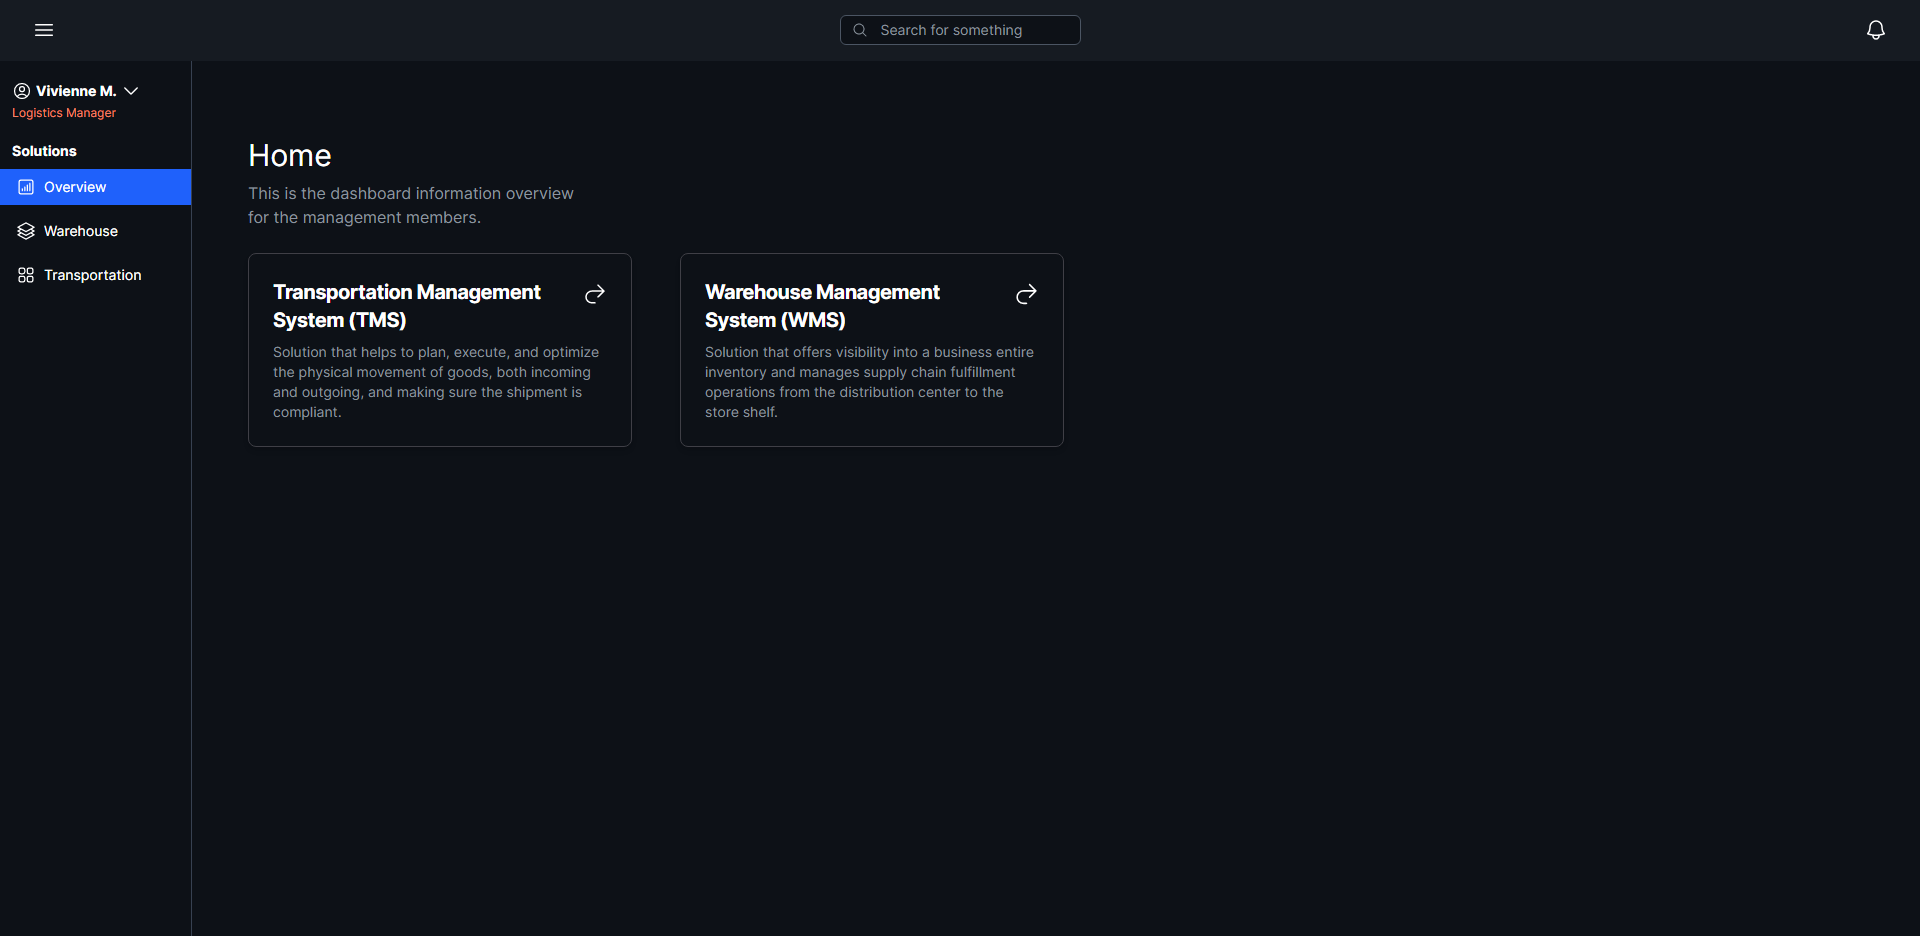
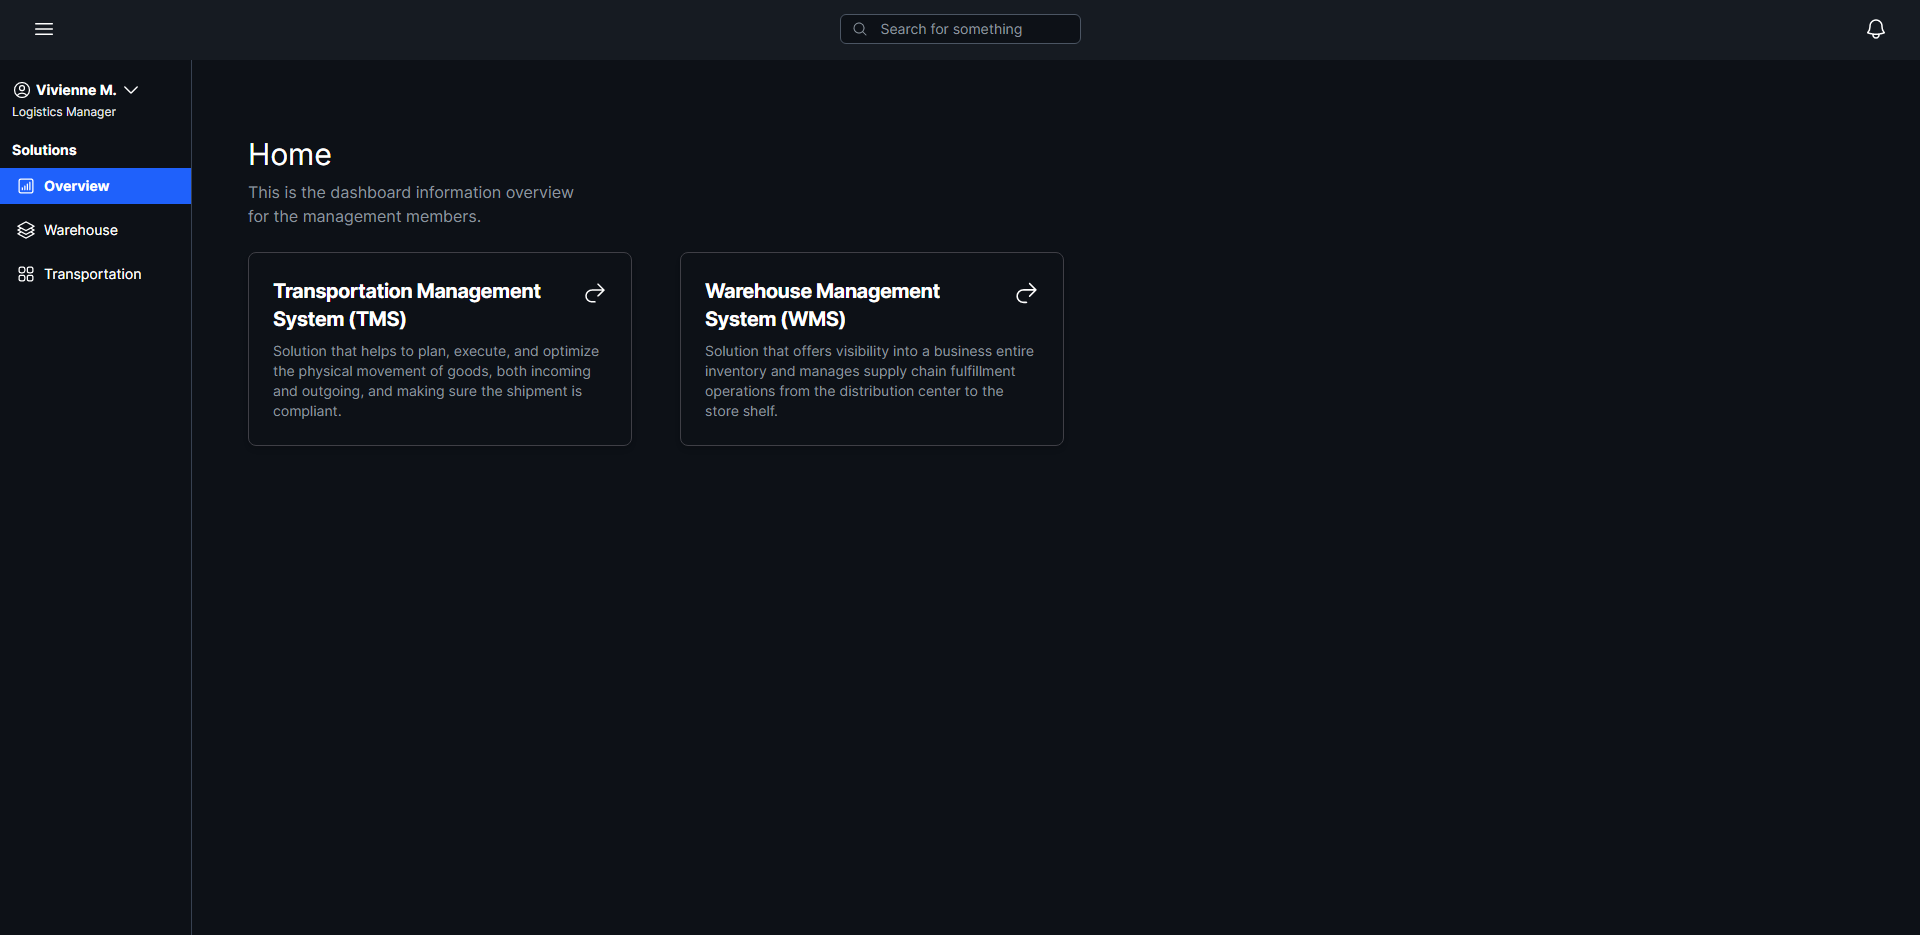
Updating interface

diff --git a/client/pages/warehouse.tsx b/client/pages/warehouse.tsx
@@ -3,6 +3,7 @@ import axios from "axios";
 import Head from "next/head";
 
 import { useState, useEffect, FormEvent } from "react";
+import * as Popover from "@radix-ui/react-popover";
 
 import * as Dialog from "@radix-ui/react-dialog";
 import * as AlertDialog from "@radix-ui/react-alert-dialog";
@@ -15,7 +16,7 @@ import {
   MagnifyingGlassIcon,
   TableCellsIcon,
 } from "@heroicons/react/24/outline";
-import { PlusSmallIcon } from "@heroicons/react/24/solid";
+import { PlusSmallIcon, XMarkIcon } from "@heroicons/react/24/solid";
 
 type ItemProps = {
   id: string;
@@ -47,6 +48,7 @@ export default function Warehouse(props: CountProps) {
   const [items, setItems] = useState<ItemProps[]>([]);
   const [open, setIsOpen] = useState(false);
   const [deleteDialogOpen, setDeleteDialogOpen] = useState(false);
+  const [updateDialogOpen, setUpdateDialogOpen] = useState(false);
   const [query, setQuery] = useState("");
 
   useEffect(() => {
@@ -77,26 +79,6 @@ export default function Warehouse(props: CountProps) {
     } catch (error) {
       console.error();
     }
-  }
-
-  async function handleUpdate(id: string, event: FormEvent) {
-    event.preventDefault();
-
-    const formData = new FormData(event.target as HTMLFormElement);
-    const data = Object.fromEntries(formData);
-
-    const response = await axios.put(
-      `http://localhost:4000/warehouseitems/${id}`,
-      {
-        product: data.product,
-        description: data.description,
-        sku: data.sku,
-        weight: data.weight,
-        pickingStatus: data.pickingStatus,
-      }
-    );
-    setItems([response.data, ...items]);
-    alert("Item updated with success!");
   }
 
   function handleDelete(id: string) {
@@ -228,15 +210,15 @@ export default function Warehouse(props: CountProps) {
   function deleteDialog() {
     return deleteDialogOpen ? (
       <AlertDialog.Portal>
-        <AlertDialog.Overlay className="white fixed inset-0 bg-black bg-opacity-5" />
-        <AlertDialog.Content className="fixed top-1/2 left-1/2 w-[480px] -translate-x-1/2 -translate-y-1/2 rounded-lg border border-zinc-700 bg-[#0d1117] py-8 px-10 text-white shadow-lg shadow-black/25">
-          <AlertDialog.Title className="text-xl">
-            Delivery successfully deleted
+        <AlertDialog.Overlay className="white fixed inset-0 bg-black bg-opacity-30" />
+        <AlertDialog.Content className="fixed top-1/2 left-1/2 w-[400px] -translate-x-1/2 -translate-y-1/2 items-center rounded-lg border border-zinc-700 bg-[#0d1117] py-8 px-10 text-white shadow-lg shadow-black/25">
+          <AlertDialog.Title className="text-center text-xl">
+            Product successfully deleted
           </AlertDialog.Title>
-          <AlertDialog.Description className="pt-0.5  text-sm text-[#8B949E]">
-            This delivery has been successfully deleted.
+          <AlertDialog.Description className="pt-1 text-center text-sm text-[#8B949E]">
+            This product has been successfully deleted.
           </AlertDialog.Description>
-          <div>
+          <div className="flex justify-center">
             <AlertDialog.Action asChild>
               <button className="mt-4 flex h-[40px] w-[120px] items-center justify-center gap-1 rounded-lg border border-zinc-700 bg-[#0d1117] pt-0 text-sm font-bold text-white duration-300  hover:border-[#1f61fb] hover:bg-[#131922] hover:text-white  hover:outline-none hover:ring-1 hover:ring-[#1f61fb] hover:transition-colors">
                 Got it, thanks!
@@ -356,11 +338,11 @@ export default function Warehouse(props: CountProps) {
                         <td className="py-4 px-6">{products.weight}</td>
                         <td className="py-4 px-6">{products.pickingStatus}</td>
 
-                        <AlertDialog.Root
-                          open={deleteDialogOpen}
-                          onOpenChange={setDeleteDialogOpen}
-                        >
-                          <td className="py-4 px-6 text-right">
+                        <td className="py-4 px-6 text-right">
+                          <AlertDialog.Root
+                            open={deleteDialogOpen}
+                            onOpenChange={setDeleteDialogOpen}
+                          >
                             {deleteDialog()}
                             <AlertDialog.Trigger>
                               <button
@@ -370,8 +352,8 @@ export default function Warehouse(props: CountProps) {
                                 Delete
                               </button>
                             </AlertDialog.Trigger>
-                          </td>
-                        </AlertDialog.Root>
+                          </AlertDialog.Root>
+                        </td>
                       </tr>
                     );
                   })}

diff --git a/client/pages/transportation.tsx b/client/pages/transportation.tsx
@@ -100,7 +100,7 @@ export default function Transportation(props: CountProps) {
     return open ? (
       <Dialog.Portal>
         <Dialog.Overlay className="fixed inset-0 bg-black/60" />
-        <Dialog.Content className="fixed top-1/2 left-1/2 w-[450px] -translate-x-1/2 -translate-y-1/2 rounded-lg border border-zinc-700 bg-[#0d1117] py-8 px-10 text-white shadow-lg shadow-black/25">
+        <Dialog.Content className="fixed top-1/2 left-1/2 w-[440px] -translate-x-1/2 -translate-y-1/2 rounded-lg border border-zinc-700 bg-[#0d1117] py-8 px-10 text-white shadow-lg shadow-black/25">
           <Dialog.Title className="flex items-center gap-1 text-xl">
             New delivery
             <PlusSmallIcon className="h-7 w-7" />
@@ -266,13 +266,13 @@ export default function Transportation(props: CountProps) {
       <AlertDialog.Portal>
         <AlertDialog.Overlay className="white fixed inset-0 bg-black bg-opacity-5" />
         <AlertDialog.Content className="fixed top-1/2 left-1/2 w-[480px] -translate-x-1/2 -translate-y-1/2 rounded-lg border border-zinc-700 bg-[#0d1117] py-8 px-10 text-white shadow-lg shadow-black/25">
-          <AlertDialog.Title className="text-xl">
+          <AlertDialog.Title className="text-center text-xl">
             Delivery successfully deleted
           </AlertDialog.Title>
-          <AlertDialog.Description className="pt-0.5  text-sm text-[#8B949E]">
+          <AlertDialog.Description className="pt-1 text-center text-sm text-[#8B949E]">
             This delivery has been successfully deleted.
           </AlertDialog.Description>
-          <div>
+          <div className="flex justify-center">
             <AlertDialog.Action asChild>
               <button className="mt-4 flex h-[40px] w-[120px] items-center justify-center gap-1 rounded-lg border border-zinc-700 bg-[#0d1117] pt-0 text-sm font-bold text-white duration-300  hover:border-[#1f61fb] hover:bg-[#131922] hover:text-white  hover:outline-none hover:ring-1 hover:ring-[#1f61fb] hover:transition-colors">
                 Got it, thanks!

diff --git a/client/pages/components/Nav.tsx b/client/pages/components/Nav.tsx
@@ -44,7 +44,7 @@ export function Nav() {
             <p className="text-sm font-bold">Vivienne M.</p>
             <ChevronDownIcon className="h-5 w-5 cursor-pointer text-white hover:text-[#c7c7c7]" />
           </div>
-          <p className="pt-1 text-xs text-[#f78166]">Logistics Manager</p>
+          <p className="pt-1 text-xs text-gray-200">Logistics Manager</p>
         </div>
         <div className="h-full">
           <h1 className="ml-3 text-sm font-bold text-white">Solutions</h1>
@@ -55,7 +55,7 @@ export function Nav() {
                   href="/"
                   className={
                     router.pathname == "/"
-                      ? "mt-2 flex items-center bg-[#1f61fb] p-2 text-base font-normal text-white"
+                      ? "mt-2 flex items-center bg-[#1f61fb] p-2 text-base font-bold text-white"
                       : "mt-2 flex items-center p-2 text-base font-normal text-white hover:bg-[#1f61fb]"
                   }
                 >
@@ -69,7 +69,7 @@ export function Nav() {
                   href="/warehouse"
                   className={
                     router.pathname == "/warehouse"
-                      ? "mt-2 flex items-center bg-[#1f61fb] p-2 text-base font-normal text-white"
+                      ? "mt-2 flex items-center bg-[#1f61fb] p-2 text-base font-bold text-white"
                       : "mt-2 flex items-center p-2 text-base font-normal text-white hover:bg-[#1f61fb]"
                   }
                 >
@@ -82,7 +82,7 @@ export function Nav() {
                   href="/transportation"
                   className={
                     router.pathname == "/transportation"
-                      ? "mt-2 flex items-center bg-[#1f61fb] p-2 text-base font-normal text-white"
+                      ? "mt-2 flex items-center bg-[#1f61fb] p-2 text-base font-bold text-white"
                       : "mt-2 flex items-center p-2 text-base font-normal text-white hover:bg-[#1f61fb]"
                   }
                 >
